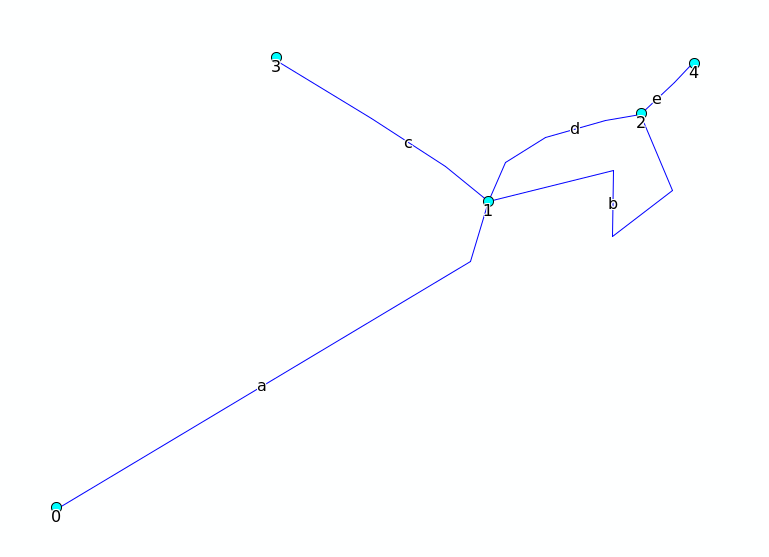
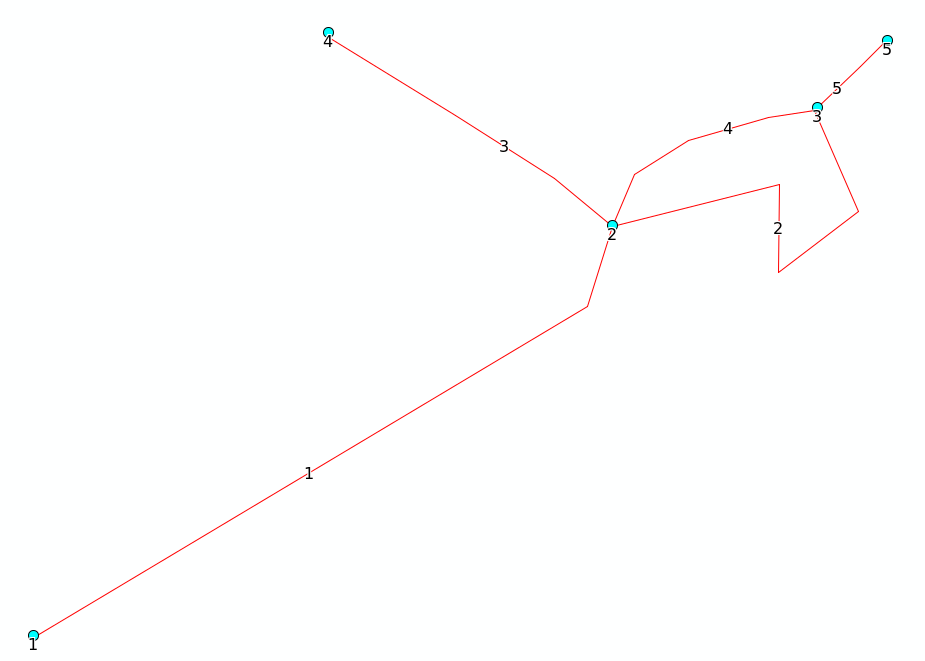
Update docs to new ids

diff --git a/docs/topology.md b/docs/topology.md
@@ -16,14 +16,14 @@ The topology module will convert a shapefile containing lines to a topological n
 
 In the example above, the original line c will be copied to a new shape with start_id 3 and end_id 1
 
-| *shape_index* | start_id | end_id |      length |
+|    line_id    | startpt_id | endpt_id |      length |
 | ------------- | -------: | -----: | ----------: |
-| 0             |        0 |      1 |   1860.5233 |
-| 1             |        1 |      2 | 1194.811345 |
-| 2             |        3 |      1 |  876.026211 |
-| 3             |        2 |      4 |  337.079592 |
-| 4             |        4 |      5 |  536.973937 |
-| 5             |        6 |      5 |  445.508516 |
+| 1             |        1 |      2 |   1860.5233 |
+| 2             |        2 |      3 | 1194.811345 |
+| 3             |        4 |      2 |  876.026211 |
+| 4             |        3 |      5 |  337.079592 |
+| 5             |        5 |      6 |  536.973937 |
+| 6             |        7 |      8 |  445.508516 |
 
 ## Upstream edges
 
@@ -37,24 +37,24 @@ In the table `adjectant edges` two edges will go to this line, and only one will
 
 | from |   to |
 | ---: | ---: |
-|    0 |    1 |
-|    1 |    3 |
-|    2 |    1 |
-|    3 |    4 |
+|    1 |    2 |
+|    2 |    4 |
+|    3 |    2 |
+|    4 |    5 |
 
 For the `upstream_edges` this list will follow any link recursively, starting from any point in to not appearing in from. 
 
-| edge | upstream_edge | proportion |
+| edge | upstream_line | proportion |
 | ---: | ------------: | ---------: |
-|    1 |             0 |   1.000000 |
-|    1 |             2 |   1.000000 |
-|    3 |             0 |   1.000000 |
-|    3 |             1 |   1.000000 |
-|    3 |             2 |   1.000000 |
-|    4 |             0 |   1.000000 |
+|    2 |             1 |   1.000000 |
+|    2 |             3 |   1.000000 |
 |    4 |             1 |   1.000000 |
 |    4 |             2 |   1.000000 |
 |    4 |             3 |   1.000000 |
+|    5 |             1 |   1.000000 |
+|    5 |             2 |   1.000000 |
+|    5 |             3 |   1.000000 |
+|    5 |             4 |   1.000000 |
 
 ### Special cases
 
@@ -64,28 +64,28 @@ For the `upstream_edges` this list will follow any link recursively, starting fr
 
 In the example below the output of node 1 will go to two lines, b and d. In this case, only half of the input of a and c (shape_index 0 and 1) will be attributed to b (shape_index 3).
 
-![split upstream](/home/johan/git/saga-watem/docs/img/split_upstream.png)
+![split upstream](img/split_upstream.png)
 
 
+|line_id|startpt_id|endpt_id|length|shreve_order|sort_order|
+|----:|----:|----:|----:|----:|----:|
+|1.000000|1|2|1860.523352|0|0|
+|2.000000|2|3|1194.811345|0|0|
+|3.000000|4|2|876.026211|0|0|
+|4.000000|2|3|635.651520|0|0|
+|5.000000|3|5|245.821802|0|0|
 
-| shape_index | start_id | end_id |      length | shreve_order | sort_order |
-| ----------- | -------: | -----: | ----------: | -----------: | ---------: |
-| 0           |        0 |      1 | 1860.523352 |            0 |          0 |
-| 1           |        1 |      2 | 1194.811345 |            0 |          0 |
-| 2           |        3 |      1 |  876.026211 |            0 |          0 |
-| 3           |        1 |      2 |  635.651520 |            0 |          0 |
-| 4           |        2 |      4 |  245.821802 |            0 |          0 |
+|line_id|upstream_line|proportion|
+|----:|----:|----:|
+|2|1|0.500000|
+|2|3|0.500000|
+|4|1|0.500000|
+|4|3|0.500000|
+|5|1|1.000000|
+|5|2|1.000000|
+|5|3|1.000000|
+|5|4|1.000000|
 
-| edge | upstream_edge | proportion |
-| ---: | ------------: | ---------: |
-|    1 |             0 |   0.500000 |
-|    1 |             2 |   0.500000 |
-|    3 |             0 |   0.500000 |
-|    3 |             2 |   0.500000 |
-|    4 |             0 |   1.000000 |
-|    4 |             1 |   1.000000 |
-|    4 |             2 |   1.000000 |
-|    4 |             3 |   1.000000 |
 
 ### Circular routes
 
@@ -97,27 +97,29 @@ in the drawing below, the direction of line d has been flipped (from 2 to 1). Th
 
 ##### Topology
 
-| shape_index | start_id | end_id |      length | shreve_order | sort_order |
-| ----------- | -------: | -----: | ----------: | -----------: | ---------: |
-| 0           |        0 |      1 | 1860.523352 |            1 |          1 |
-| 1           |        1 |      2 | 1194.811345 |            3 |          2 |
-| 2           |        3 |      1 |  876.026211 |            1 |          1 |
-| 3           |        2 |      4 |  245.821802 |            3 |          3 |
-| 4           |        2 |      1 |  714.752651 |            1 |          1 |
+|line_id|startpt_id|endpt_id|length|shreve_order|sort_order|
+|----:|----:|----:|----:|----:|----:|
+|1.000000|1|2|1860.523352|0|0|
+|2.000000|2|3|1194.811345|1|1|
+|3.000000|4|2|876.026211|3|2|
+|4.000000|3|5|245.821802|1|1|
+|5.000000|3|2|649.657639|3|3|
+
 
 ##### Upstream edges
 
 For calculating the upstream edges this circular edge is split 
 
-| edge | upstream_edge | proportion |
-| ---: | ------------: | ---------: |
-|    1 |             0 |   1.000000 |
-|    1 |             2 |   1.000000 |
-|    1 |             4 |   1.000000 |
-|    3 |             0 |   1.000000 |
-|    3 |             1 |   1.000000 |
-|    3 |             2 |   1.000000 |
-|    3 |             4 |   1.000000 |
+|line_id|upstream_line|proportion|
+|----:|----:|----:|
+|2|1|1.000000|
+|2|3|1.000000|
+|2|5|1.000000|
+|4|1|1.000000|
+|4|2|1.000000|
+|4|3|1.000000|
+|4|5|1.000000|
+
 
 ### Complete circle
 
